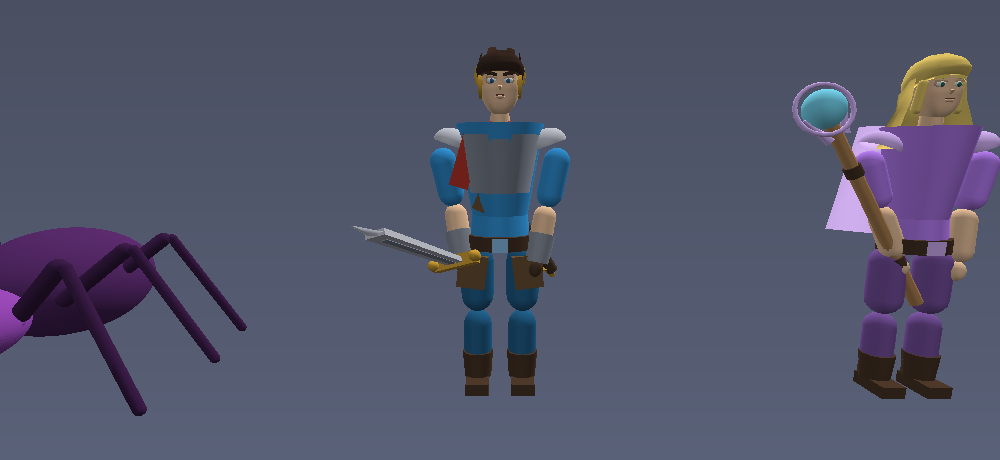
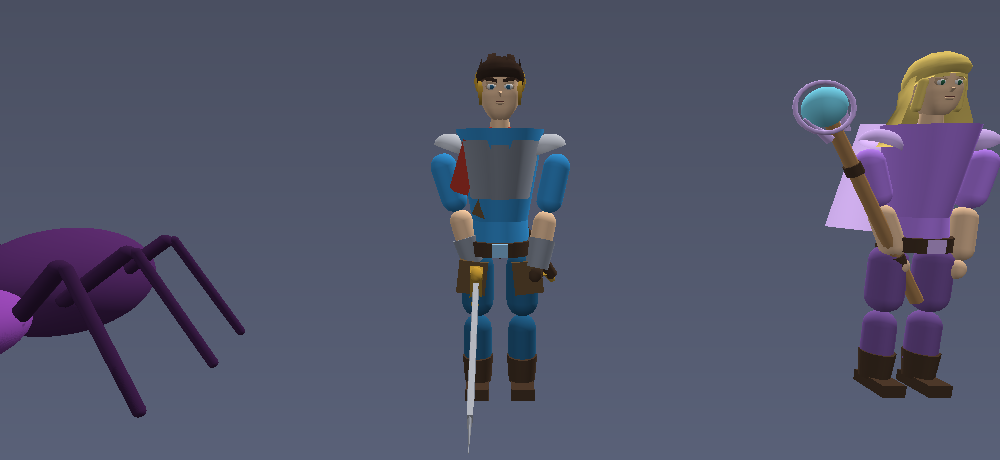
Хват меча: кромкой вперёд, остриё к земле; амплитудный замах
Меч держали плашмя — плоскость клинка смотрела вперёд, поэтому удар был
шлепком, а не разрезом. Хват развёрнут: нормаль плоскости теперь почти
строго вбок, вперёд идёт режущая кромка.

Стойка. Остриё опущено к земле (низ клинка ~0.19 при росте 3.1), кисть
довёрнута под весом клинка, поэтому меч не параллелен полу, а наклонён
остриём вниз. Смотрит вперёд, а не вбок. Углы подобраны численным
перебором по трём условиям сразу.

Бег. Клинок выводится параллельно полу и локоть сгибается — так удобнее
бежать. Замер: без сгиба локтя клинок висит на y=-0.69, со сгибом 0.02.
Основную работу делает именно локоть, кисть лишь довершает поворот.

Замах стал амплитудным: остриё уходит на 4.05 против макушки 2.85, то
есть меч реально заносится над головой (раньше пик был 1.75 — на уровне
груди). Проводка идёт вниз-вперёд, но клинок не проваливается сквозь
арену (минимум 0.40).

Суставы клампятся анатомическими пределами, иначе размашистый замах
выгибает руку в обратную сторону. Замер показал: локоть упирается в
границу -0.05 (без клампа разгибался бы назад), плечо доходит до -2.41
при пределе -2.7 — его рамка пока с запасом.

Четыре теста, включая метрику «режет или шлёпает»: плоскость клинка
против направления движения острия, с весом по скорости. Проверено
мутациями — вялый замах, разворот плашмя и потеря сгиба локтя ловятся.

diff --git a/src/render/Animator.js b/src/render/Animator.js
@@ -14,6 +14,12 @@ const TWO_PI = Math.PI * 2;
 // Позы смерти: угол падения и подъём корня, который не даёт телу
 // провалиться сквозь пол арены. Значения подобраны по габаритам моделей.
 const SWING_SECONDS = 0.42;
+
+// Доворот кисти на бегу. Основную работу делает сгиб локтя (он и выводит
+// клинок параллельно полу), кисть лишь довершает поворот, поэтому значения
+// небольшие. Замер: без сгиба локтя клинок висит на y=-0.69, со сгибом 0.02.
+const CARRY_WRIST_X = 0.30;
+const CARRY_WRIST_Z = 0.10;
 const CAST_SECONDS = 0.8;
 const HUMANOID_DEATH_ROT = 1.45;
 const HUMANOID_DEATH_LIFT = 0.68;
@@ -32,6 +38,31 @@ function damp(current, target, lambda, dt) {
 function clamp01(value) {
     return Math.max(0, Math.min(1, value));
 }
+
+function clamp(value, min, max) {
+    return Math.max(min, Math.min(max, value));
+}
+
+/**
+ * Анатомические пределы суставов (радианы). Процедурная анимация легко
+ * заводит сустав за естественный предел — рука выгибается в обратную
+ * сторону, и удар выглядит как вывих. Позы клампятся этими рамками.
+ *
+ * Замер на текущих приёмах: локоть упирается в верхнюю границу (-0.05) —
+ * без клампа он разгибался бы в обратную сторону. Плечо доходит до -2.41
+ * при пределе -2.7, то есть его рамка сейчас с запасом; она оставлена как
+ * страховка для более размашистых приёмов.
+ */
+const LIMITS = {
+    // Локоть только сгибается: 0 — прямая рука, отрицательное — сгиб.
+    elbow: [-2.5, -0.05],
+    // Плечо: рука свободно поднимается над головой (назад-вверх) и
+    // выносится вперёд. Прежний предел -1.0 блокировал замах и каст.
+    shoulderX: [-2.7, 3.0],
+    shoulderZ: [-1.5, 1.5],
+    // Кисть отсчитывается от хвата, поэтому предел задаётся отклонением.
+    wristDeviation: 1.45,
+};
 
 /**
  * Профиль удара: занос поднимает оружие до 1, удар сбрасывает до −1
@@ -181,7 +212,7 @@ export class Animator {
         // Скручивание корпуса: замах уводит плечо назад, удар проносит вперёд.
         rig.torso.rotation.y = damp(
             rig.torso.rotation.y,
-            attacking ? (windup * 0.62 - strike * 1.15) * (1 - recover) : 0,
+            attacking ? (windup * 0.85 - strike * 1.5) * (1 - recover) : 0,
             attacking ? 24 : 16, dt,
         );
         // Приседание перед ударом и подъём на проводке — вес тела.
@@ -194,7 +225,7 @@ export class Animator {
         if (rig.hips.rotation) {
             rig.hips.rotation.y = damp(
                 rig.hips.rotation.y,
-                attacking ? (windup * 0.3 - strike * 0.5) * (1 - recover) : 0,
+                attacking ? (windup * 0.42 - strike * 0.7) * (1 - recover) : 0,
                 attacking ? 20 : 12, dt,
             );
         }
@@ -215,49 +246,71 @@ export class Animator {
             attacking ? 20 : 16, dt,
         );
         rig.shoulderL.rotation.z = damp(rig.shoulderL.rotation.z, rest.shoulderLZ, 10, dt);
-        rig.elbowL.rotation.x = damp(
+        rig.elbowL.rotation.x = clamp(damp(
             rig.elbowL.rotation.x,
             rest.elbowLX - castP * 0.95 + castPush * 0.8,
             casting ? 18 : 12, dt,
-        );
+        ), LIMITS.elbow[0], LIMITS.elbow[1]);
+
+        // Бег с мечом: клинок выводится ПАРАЛЛЕЛЬНО полу, локоть сгибается,
+        // рука прижимается к корпусу. В стойке меч опущен остриём к земле —
+        // бежать в такой позе значило бы черпать остриём землю.
+        const carrying = rig.weapon === 'sword';
+        const carry = carrying ? runBlend : 0;
 
         // Правая рука с оружием: занос за плечо, затем рубящий удар вниз.
         const armTarget = attacking
-            ? rest.shoulderRX + (windup * 2.3 - strike * 3.6) * (1 - recover)
-            : rest.shoulderRX - legSwing * -0.4 - castP * 2.6 + castPush * 1.4;
+            ? rest.shoulderRX + (-windup * 2.6 + strike * 2.2) * (1 - recover)
+            : rest.shoulderRX - legSwing * -0.4 - castP * 2.6 + castPush * 1.4
+              + carry * 0.0;
 
         // На ударе руку ведём жёстче, чем на возврате: резкость важнее плавности.
-        rig.shoulderR.rotation.x = damp(
+        rig.shoulderR.rotation.x = clamp(damp(
             rig.shoulderR.rotation.x, armTarget,
             attacking ? (strikeRaw > 0 && recoverRaw === 0 ? 34 : 20) : 12, dt,
-        );
-        rig.shoulderR.rotation.z = damp(
+        ), LIMITS.shoulderX[0], LIMITS.shoulderX[1]);
+        rig.shoulderR.rotation.z = clamp(damp(
             rig.shoulderR.rotation.z,
-            rest.shoulderRZ - (attacking ? (windup * 0.75 - strike * 1.25) * (1 - recover) : 0)
-            - castP * 0.25,
+            rest.shoulderRZ + (attacking ? (-windup * 0.7 + strike * 0.95) * (1 - recover) : 0)
+            - castP * 0.25
+            + carry * 0.16, // локоть подбирается к рёбрам
             attacking ? 20 : 14, dt,
-        );
-        // Локоть сгибается на заносе и распрямляется в момент удара.
-        rig.elbowR.rotation.x = damp(
+        ), LIMITS.shoulderZ[0], LIMITS.shoulderZ[1]);
+        // Локоть: сгибается на заносе, распрямляется в момент удара, и
+        // заметно согнут на бегу — так несут оружие, чтобы не мешало шагу.
+        rig.elbowR.rotation.x = clamp(damp(
             rig.elbowR.rotation.x,
-            rest.elbowRX - (attacking ? (windup * 1.5 - strike * 1.7) * (1 - recover) : 0),
+            rest.elbowRX + (attacking ? (-windup * 0.66 + strike * 0.66) * (1 - recover) : 0)
+            - carry * 0.80,
             attacking ? 26 : 14, dt,
-        );
+        ), LIMITS.elbow[0], LIMITS.elbow[1]);
 
-        // Кисть довoрачивает оружие: клинок идёт плашмя -> на ребро.
+        // Кисть держит клинок. rest-углы уже задают режущую кромку вперёд,
+        // поэтому анимация только ДОБАВЛЯЕТ к ним, не перетирая разворот.
         if (rig.weaponPivot) {
-            rig.weaponPivot.rotation.x = damp(
+            // На бегу кисть распрямляется, выводя меч параллельно полу.
+            const carryX = carry * CARRY_WRIST_X;
+
+            const wristLimit = LIMITS.wristDeviation;
+            rig.weaponPivot.rotation.x = clamp(damp(
                 rig.weaponPivot.rotation.x,
-                rest.weaponX + (attacking ? (windup * 0.75 - strike * 1.5) * (1 - recover) : 0)
+                rest.weaponX + carryX
+                + (attacking ? (-windup * 0.9 + strike * 0.5) * (1 - recover) : 0)
                 - castP * 0.5 + castPush * 0.7,
                 attacking ? 26 : 16, dt,
+            ), rest.weaponX - wristLimit, rest.weaponX + wristLimit);
+            // Разворот хвата (режущая кромка вперёд) держится постоянно:
+            // анимация его не трогает, иначе меч уходит плашмя.
+            rig.weaponPivot.rotation.y = damp(
+                rig.weaponPivot.rotation.y, rest.weaponY ?? 0,
+                attacking ? 24 : 14, dt,
             );
-            rig.weaponPivot.rotation.z = damp(
+            rig.weaponPivot.rotation.z = clamp(damp(
                 rig.weaponPivot.rotation.z,
-                rest.weaponZ + castP * 0.4
-                + (attacking ? (windup * 0.5 - strike * 0.95) * (1 - recover) : 0),
+                rest.weaponZ + castP * 0.4 + carry * CARRY_WRIST_Z
+                + (attacking ? (-windup * 0.3 + strike * 0.8) * (1 - recover) : 0),
                 attacking ? 22 : 12, dt,
-            );
+            ), rest.weaponZ - wristLimit, rest.weaponZ + wristLimit);
         }
 
         // Плащ отстаёт от корпуса — простая имитация инерции ткани.

diff --git a/src/render/models.js b/src/render/models.js
@@ -661,12 +661,19 @@ export function createHumanoid(scene, { id, color = '#3498db', weapon = 'sword',
     elbowL.rotation.x = -0.22;
 
     if (weapon === 'sword') {
-        // Меч держим остриём ВВЕРХ-ВПЕРЁД. Прежний наклон (-0.55) заваливал
-        // клинок за спину: остриё уходило на z=-0.78 при рукояти z=+0.52.
-        shoulderR.rotation.x = 0.18;
-        elbowR.rotation.x = -0.5;
-        weaponPivot.rotation.x = 1.45;
-        weaponPivot.rotation.z = -0.25;
+        // Стойка с опущенным мечом. Углы подобраны численно под три условия:
+        //   1) остриё чуть выше земли (низ клинка ~0.22 при росте 3.1);
+        //   2) клинок смотрит ВПЕРЁД, а не вбок (направление к острию z≈0.79);
+        //   3) плоскость клинка развёрнута вбок — меч держат РЕЖУЩЕЙ КРОМКОЙ
+        //      вперёд, а не плашмя (нормаль плоскости почти строго по X).
+        // Кисть довёрнута под весом клинка, поэтому меч не параллелен полу,
+        // а наклонён остриём вниз (составляющая y≈-0.61).
+        shoulderR.rotation.x = 0.0;
+        shoulderR.rotation.z = -0.3;
+        elbowR.rotation.x = -0.1;
+        weaponPivot.rotation.x = 2.8;
+        weaponPivot.rotation.y = 1.5;
+        weaponPivot.rotation.z = 0.8;
     } else {
         // Посох стоит вертикально в опущенной руке, орб над плечом.
         elbowR.rotation.x = -0.16;
@@ -695,6 +702,7 @@ export function createHumanoid(scene, { id, color = '#3498db', weapon = 'sword',
                 elbowLX: elbowL.rotation.x,
                 elbowRX: elbowR.rotation.x,
                 weaponX: weaponPivot.rotation.x,
+                weaponY: weaponPivot.rotation.y,
                 weaponZ: weaponPivot.rotation.z,
             },
         },
